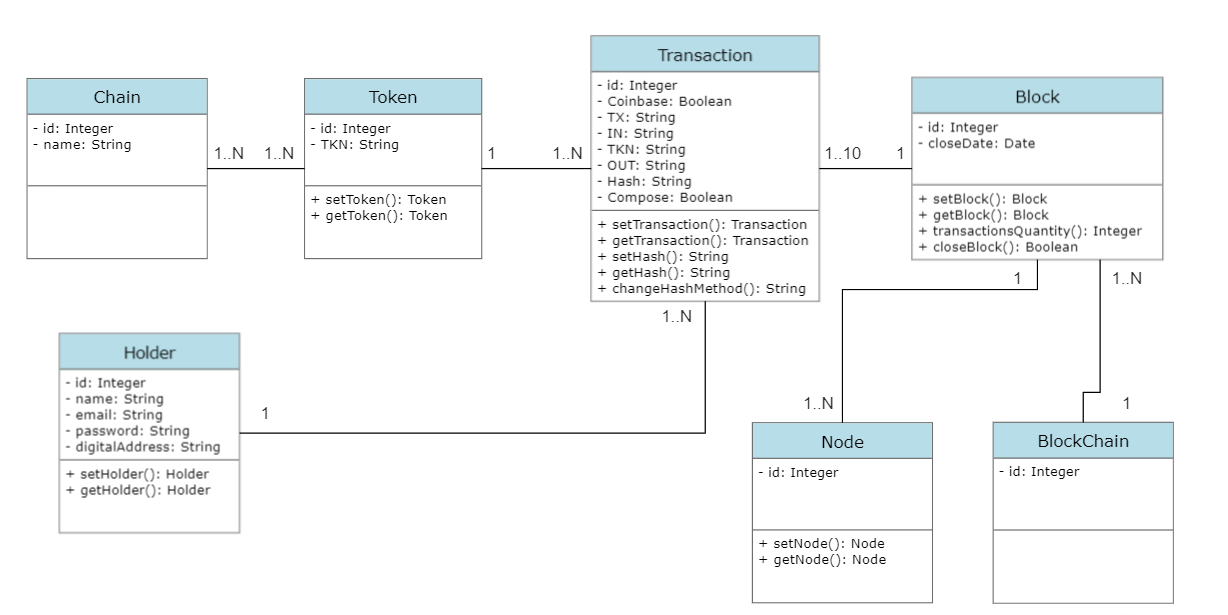
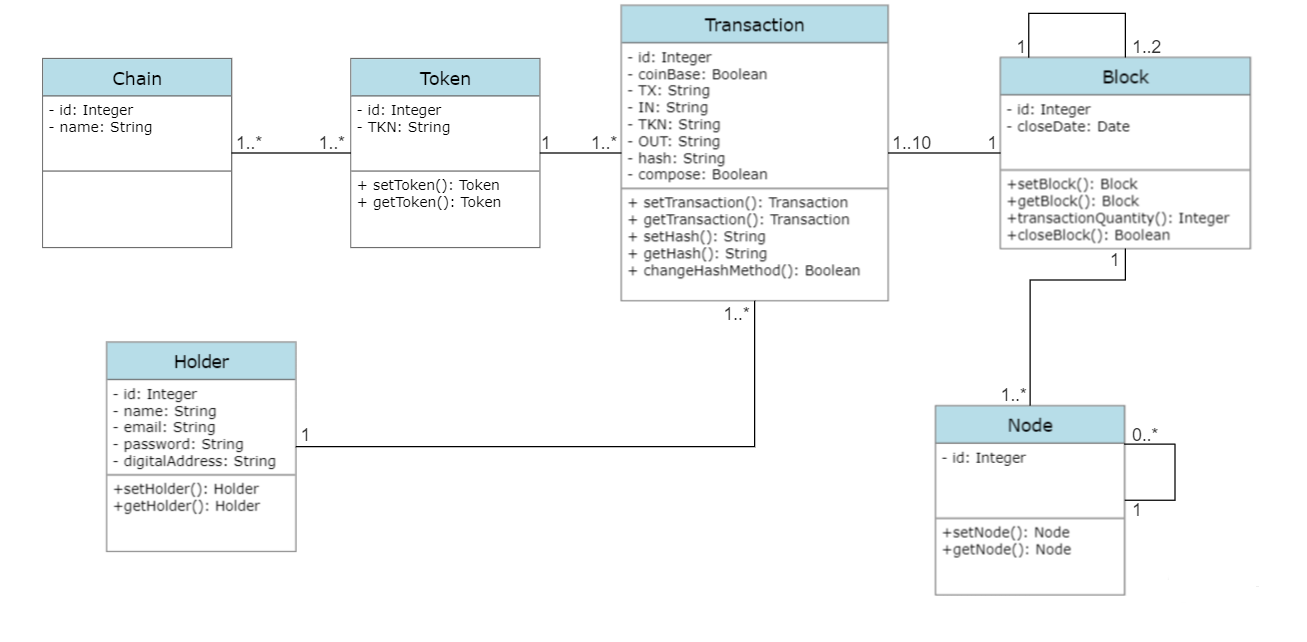
new diagram change

diff --git a/README.md b/README.md
@@ -1,3 +1,3 @@
 # tp_final_tyh2023
 
-https://cloud.smartdraw.com/editor.aspx?templateId=d1553a61-d98e-4aa1-a5bc-11a11876ea36&flags=128#depoId=45610355&credID=-48648147
+![alt text](https://i.ibb.co/BykPGCj/diagrama2.png)
